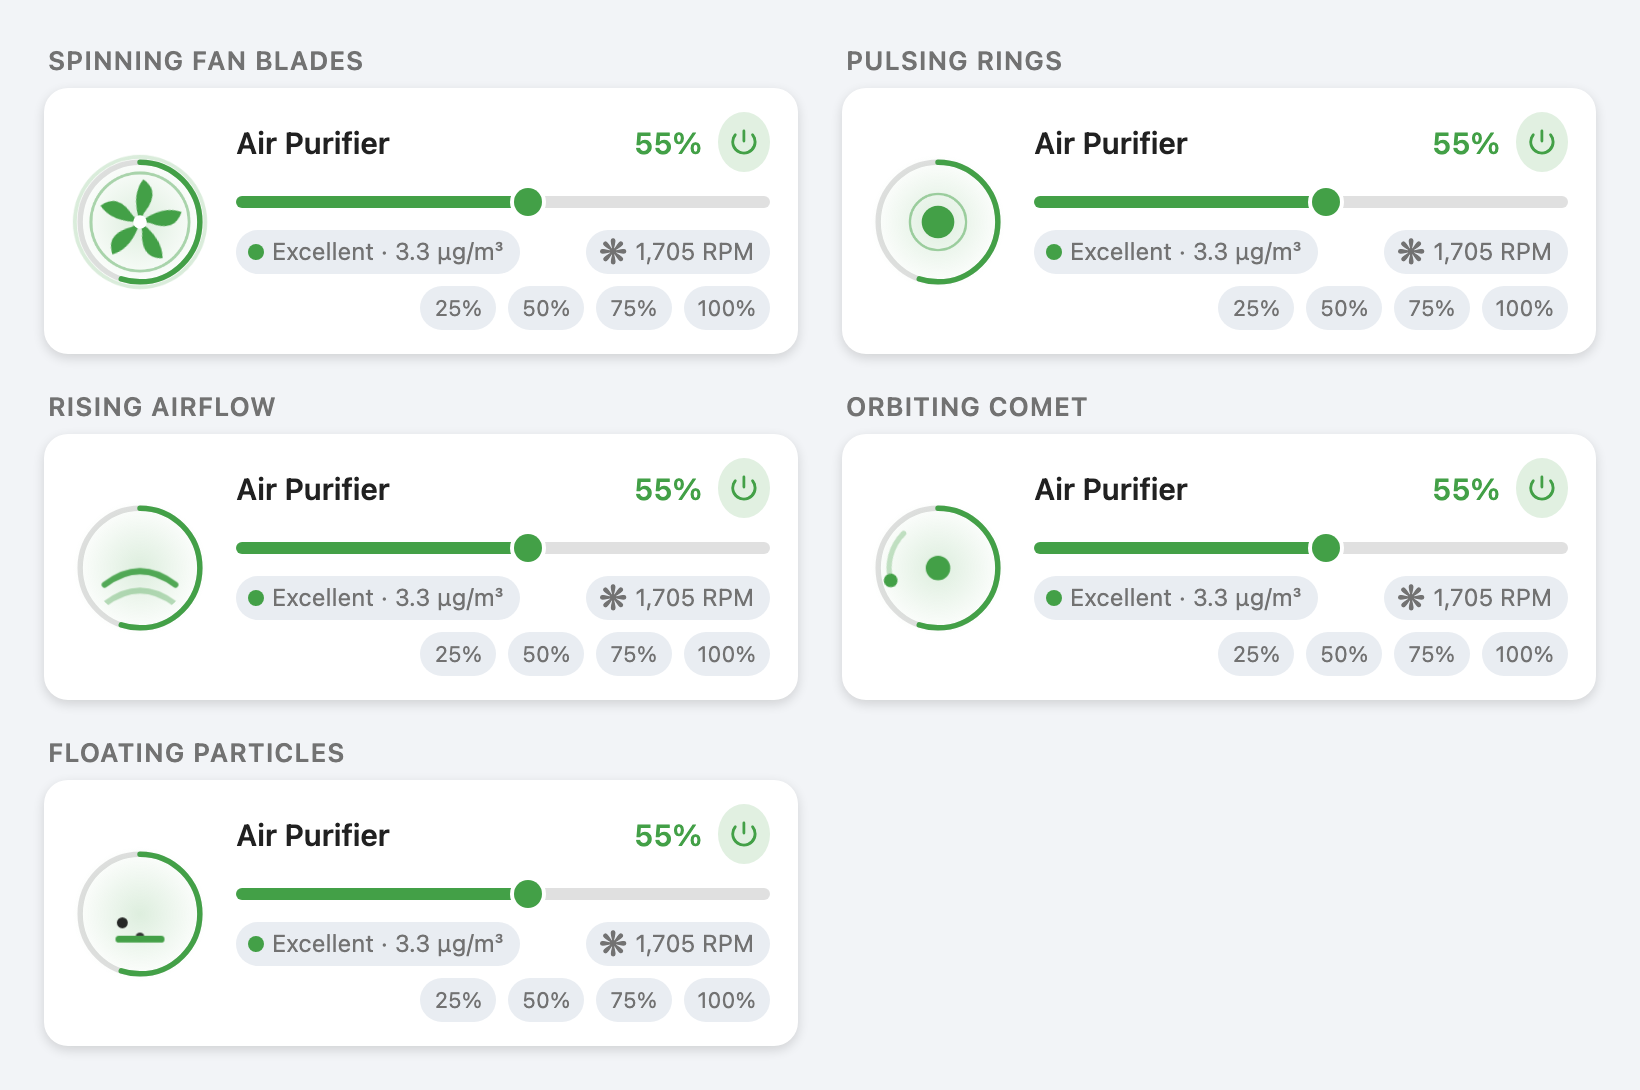
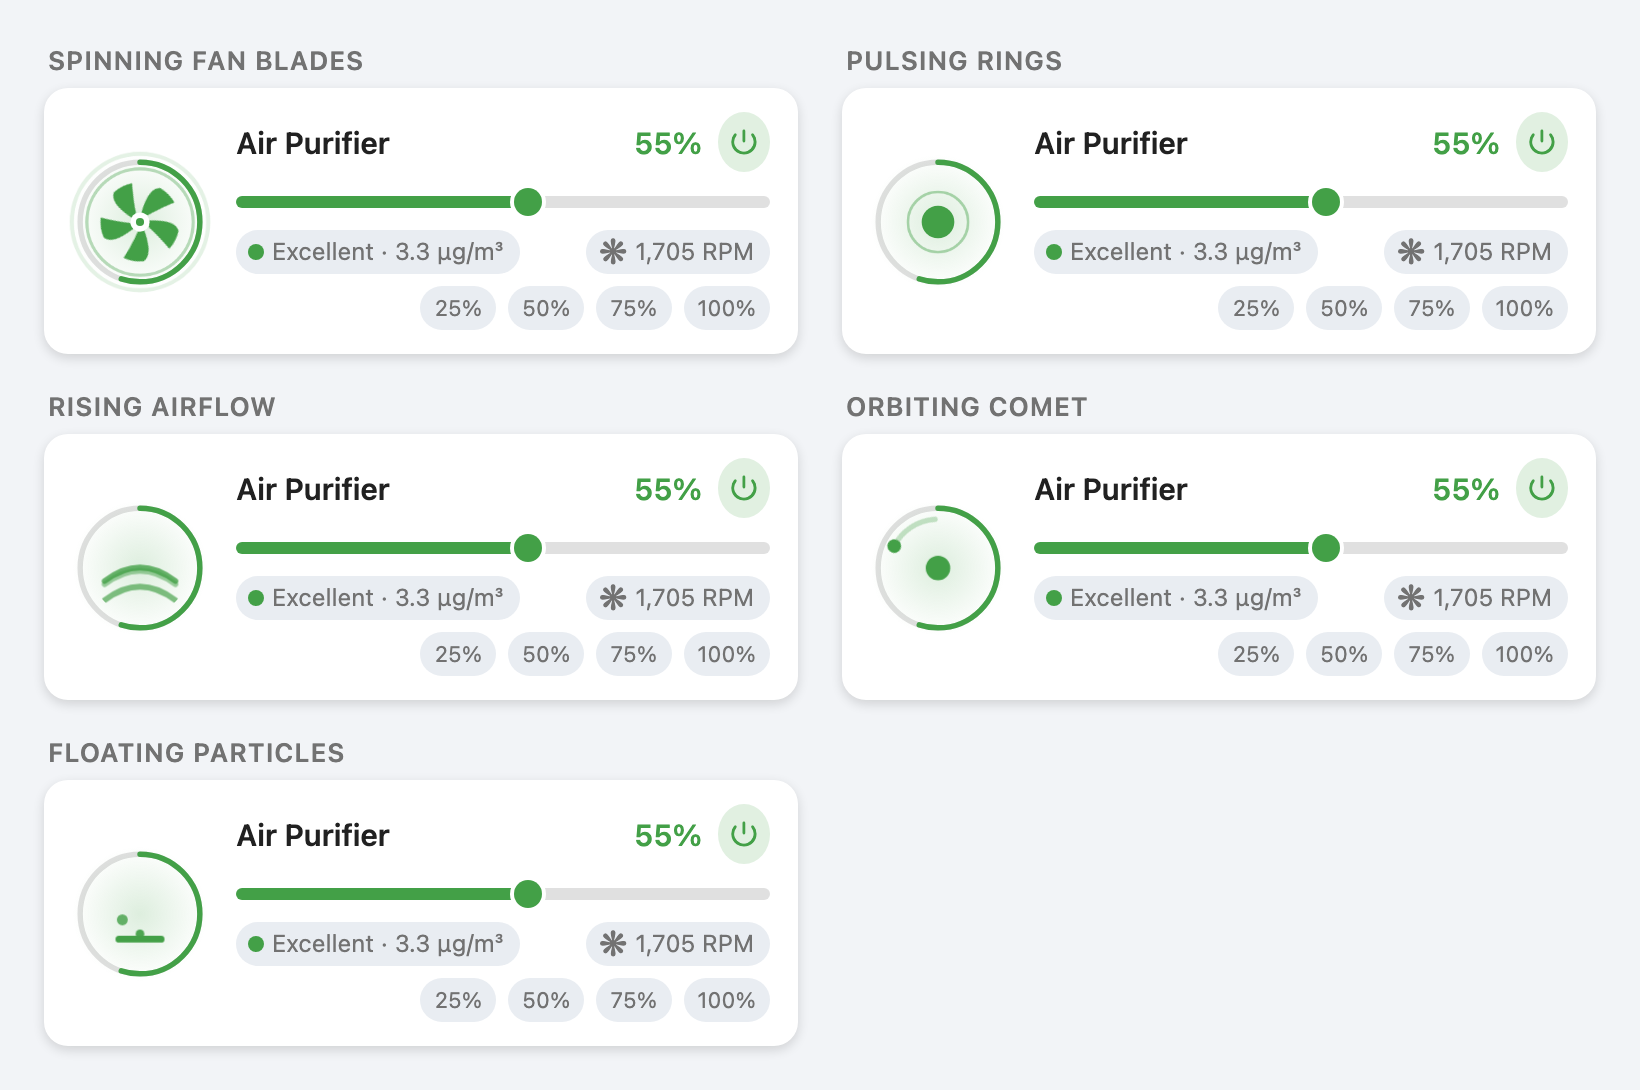
Colour the floating particles and reshape the fan blades
The particle circles inherited no fill and fell back to the SVG default
black, which disappeared on dark themes. They now take the accent colour
from the same rule as the intake line.

The blades animation used a petal shape that read as a flower; it is now
a swept five blade impeller with a hub cap.

diff --git a/dist/air-purifier-card.js b/dist/air-purifier-card.js
@@ -4,7 +4,7 @@
  * https://github.com/iharosi/air-purifier-card
  */
 
-const CARD_VERSION = "1.2.0";
+const CARD_VERSION = "1.2.1";
 
 console.info(
   `%c AIR-PURIFIER-CARD %c v${CARD_VERSION} `,
@@ -35,14 +35,15 @@ const ANIMATIONS = {
   blades: `
     <g class="blades">
       <g transform="translate(50,50)">
-        <path transform="rotate(0)" d="M0 0 Q5 -20 19 -25 Q25 -10 6 -4 Z"></path>
-        <path transform="rotate(72)" d="M0 0 Q5 -20 19 -25 Q25 -10 6 -4 Z"></path>
-        <path transform="rotate(144)" d="M0 0 Q5 -20 19 -25 Q25 -10 6 -4 Z"></path>
-        <path transform="rotate(216)" d="M0 0 Q5 -20 19 -25 Q25 -10 6 -4 Z"></path>
-        <path transform="rotate(288)" d="M0 0 Q5 -20 19 -25 Q25 -10 6 -4 Z"></path>
+        <path transform="rotate(0)" d="M0 -7 C2 -20 5 -26 10.9 -26.9 A29 29 0 0 1 22.9 -17.9 C16 -14 9 -9 4.8 -5.7 Z"></path>
+        <path transform="rotate(72)" d="M0 -7 C2 -20 5 -26 10.9 -26.9 A29 29 0 0 1 22.9 -17.9 C16 -14 9 -9 4.8 -5.7 Z"></path>
+        <path transform="rotate(144)" d="M0 -7 C2 -20 5 -26 10.9 -26.9 A29 29 0 0 1 22.9 -17.9 C16 -14 9 -9 4.8 -5.7 Z"></path>
+        <path transform="rotate(216)" d="M0 -7 C2 -20 5 -26 10.9 -26.9 A29 29 0 0 1 22.9 -17.9 C16 -14 9 -9 4.8 -5.7 Z"></path>
+        <path transform="rotate(288)" d="M0 -7 C2 -20 5 -26 10.9 -26.9 A29 29 0 0 1 22.9 -17.9 C16 -14 9 -9 4.8 -5.7 Z"></path>
       </g>
     </g>
-    <circle class="hub" cx="50" cy="50" r="5"></circle>`,
+    <circle class="hub" cx="50" cy="50" r="7"></circle>
+    <circle class="core" cx="50" cy="50" r="3"></circle>`,
 
   pulse: `
     <circle class="ripple" cx="50" cy="50" r="34"></circle>
@@ -226,7 +227,7 @@ class AirPurifierCard extends HTMLElement {
           transform-origin: 50px 50px;
           transition: stroke-dashoffset 0.5s ease, stroke 0.4s ease;
         }
-        .blades, .core, .comet, .vent {
+        .blades, .core, .comet, .vent, .particle {
           fill: var(--ap-accent);
           transition: fill 0.4s ease;
         }
